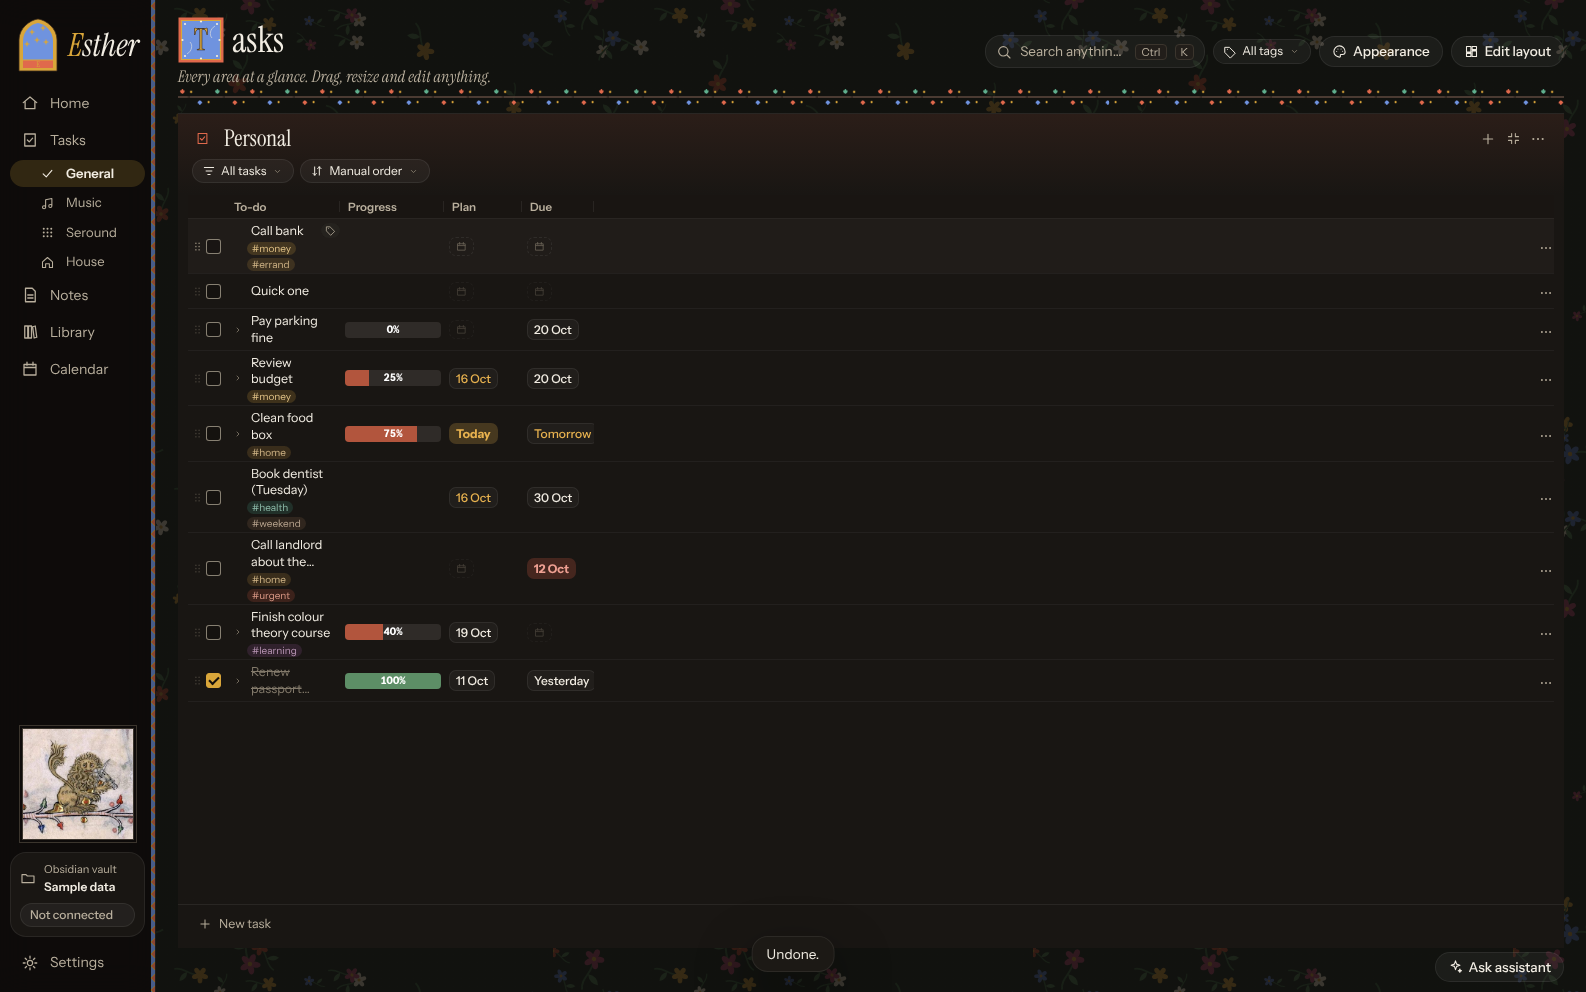
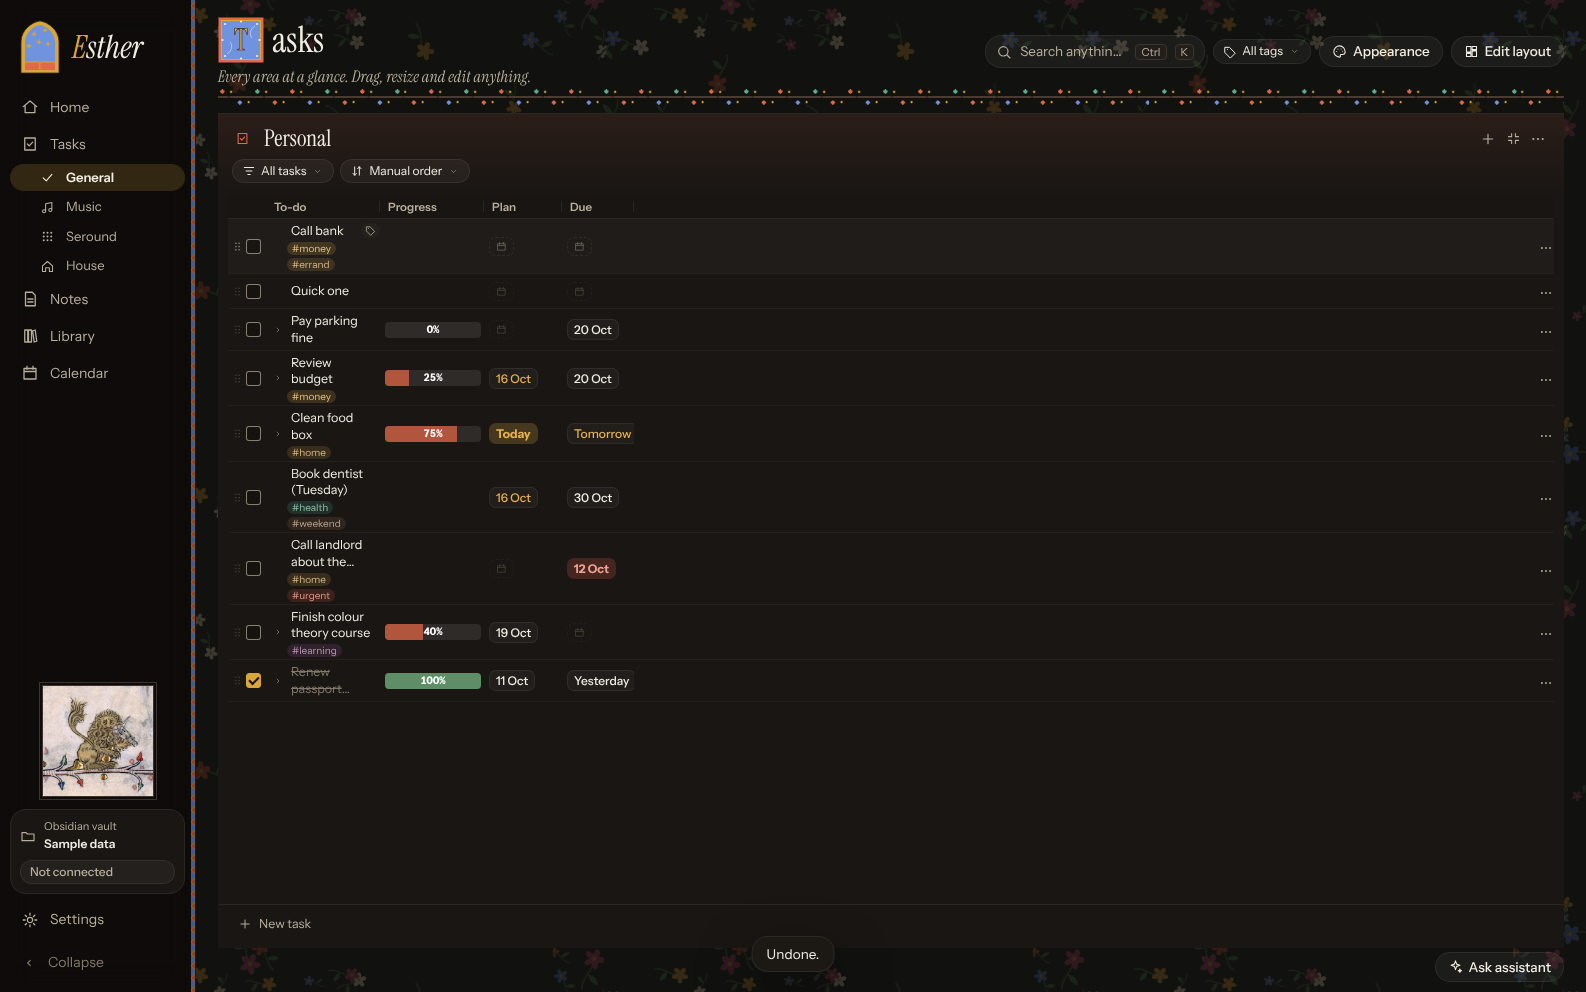
Collapsible sidebar, in-place editing keeps its look, movable Library columns
- Sidebar collapses to icons (button at the bottom or Ctrl+\); the Esther emblem stays centred when collapsed, emblem + wordmark when open. Choice is remembered.
- Editing a title or cell keeps the same font, size and colour, with a soft tint instead of a boxed text field.
- Library tables: drag a column header left or right to reorder (Name stays first).
- Library header: even padding and a hairline under it.

Claude-Session: https://claude.ai/code/session_016WKLQPuGqaCrfQHNoqNZZi

diff --git a/frankk-app/src/styles.css b/frankk-app/src/styles.css
@@ -407,13 +407,13 @@ fieldset { border: 1px solid var(--line); border-radius: var(--radius); padding:
 .color-row input { width: 26px; height: 22px; padding: 0; border: 1px solid var(--line); border-radius: 4px; background: none; cursor: pointer; }
 
 /* ---------- narrow windows ---------- */
-@media (max-width: 1440px) {
-  .app { grid-template-columns: 56px 1fr; }
-  .sidebar { padding: 14px 6px; align-items: center; }
-  .sidebar .wordmark { font-size: 11px; letter-spacing: .04em; padding: 4px 0 6px; } .sidebar .wordmark::after { letter-spacing: .1em; }
-  .sidebar button span, .vault-box, .tiny { display: none; } .sidebar button { justify-content: center; padding: 9px 0; }
-  .search-btn { width: 170px; }
-}
+@media (max-width: 1440px) { .search-btn { width: 170px; } }
+/* Collapsed sidebar (toggle at the bottom of the sidebar, or Ctrl+\) */
+.app.nav-collapsed { grid-template-columns: 60px 1fr; }
+.nav-collapsed .sidebar { padding: 14px 6px; align-items: stretch; }
+.nav-collapsed .sidebar button span, .nav-collapsed .vault-box, .nav-collapsed .side-drollery { display: none; }
+.nav-collapsed .sidebar button { justify-content: center; padding: 9px 0; }
+.nav-collapsed .sidebar li.sub button { padding: 6px 0; }
 @media (max-width: 1100px) { .search-btn span, .search-btn kbd { display: none; } .search-btn { width: auto; } }
 @media (prefers-reduced-motion: reduce) { * { transition: none !important; } }
 .vault-badge { display: flex; align-items: center; gap: 8px; border: 1px dashed var(--line); border-radius: var(--radius); padding: 3px 10px; color: var(--muted); }
@@ -865,7 +865,7 @@ fieldset { border: 1px solid var(--line); border-radius: var(--radius); padding:
 [data-style='gilded'] .capture h3, [data-style='gilded'] .coming h3, [data-style='gilded'] .minical h3 { font: 500 18px var(--font-display); letter-spacing: 0; text-transform: none; color: var(--text); }
 [data-style='gilded'] .group-label::before { content: '❧ '; color: var(--accent); }
 [data-style='gilded'] .btn.primary { background: var(--accent); border-color: var(--accent); color: var(--accent-ink); }
-@media (max-width: 1440px) { [data-style='gilded'] .wordmark { display: none; } .sidebar li.sub button { padding: 6px 0; } }
+
 @media (max-width: 1200px) { .notes { grid-template-columns: 200px minmax(0, 1fr); } .note-side { grid-column: 1 / -1; position: static; } .library, .settings { grid-template-columns: 1fr; } .lib-types, .set-nav { position: static; display: flex; flex-wrap: wrap; } }
 .w-stat-num { font-size: 34px; }
 .kind-stat .w-body { padding-bottom: 10px; }
@@ -1298,3 +1298,32 @@ fieldset { border: 1px solid var(--line); border-radius: var(--radius); padding:
 body:has(.react-grid-item.resizing) { user-select: none; }
 
 .qc-write textarea { font: 400 13.5px/1.5 var(--font-body); padding: 8px 10px; }
+
+/* ── Iteration 15: collapsible sidebar, logo centred either way ── */
+.app { grid-template-columns: 196px 1fr; transition: grid-template-columns .18s ease; }
+.brand { display: flex; align-items: center; justify-content: center; gap: 10px; padding: 4px 0 2px; }
+.app:not(.nav-collapsed) .brand { justify-content: flex-start; padding-left: 8px; }
+.nav-collapsed .brand .wordmark { display: none; }
+.nav-collapsed .brand .arch-emblem { width: 34px; height: 42px; }
+.brand .arch-emblem { flex: none; }
+.nav-toggle { color: var(--faint) !important; }
+.nav-toggle svg { transition: transform .18s ease; }
+[data-style='medieval'] .app.nav-collapsed { grid-template-columns: 84px 1fr; }
+/* Editing text keeps the same font, size and colour as the text itself: just a caret and a soft underline */
+input.editable.editing { background: color-mix(in srgb, var(--text) 6%, transparent) !important; border: 0 !important; box-shadow: none !important; outline: none;
+  border-radius: 6px; field-sizing: content; min-width: 4ch; max-width: 100%; color: inherit; }
+.panel-title input.editable.editing { color: var(--area); }
+:is([data-style='gilded'], [data-style='modern']) .panel-title input.editable.editing { color: var(--text); }
+input.editable.editing:focus, input.editable.editing:focus-visible { outline: none !important; box-shadow: none !important; border: 0 !important; }
+/* Library tables: drag a column header to move it */
+.dv-table th.movable { cursor: grab; }
+.dv-table th.col-dragging { opacity: .45; }
+.dv-table th.drop-before { box-shadow: inset 2px 0 0 color-mix(in srgb, var(--text) 45%, transparent); }
+.dv-table th.drop-after { box-shadow: inset -2px 0 0 color-mix(in srgb, var(--text) 45%, transparent); }
+
+/* Library header: even spacing */
+:is([data-style='gilded'], [data-style='modern']) .lib-main { padding: 18px 22px 16px; gap: 14px; }
+.lib-head { gap: 12px 14px; padding-bottom: 14px; border-bottom: 1px solid var(--edge, var(--line-soft)); }
+.lib-head .lib-folder { margin-left: -4px; }
+.lib-head .seg { margin-left: auto; }
+.lib-head .dv-spacer { display: none; }

diff --git a/frankk-app/src/components/DataView.tsx b/frankk-app/src/components/DataView.tsx
@@ -131,6 +131,15 @@ function TableLayout({ type, recs, fields, onOpen, view, patch }: { type: TypeDe
   const w = (k: string) => view.widths?.[k] ?? (k === 'title' ? 200 : 140);
   const sort = view.sort ? { key: view.sort.field, dir: view.sort.dir } : null;
   const tableRef = useRef<HTMLTableElement>(null);
+  // Drag a column header left or right to reorder it. Name always stays first.
+  const [dragKey, setDragKey] = useState<string | null>(null);
+  const [overKey, setOverKey] = useState<string | null>(null);
+  const moveCol = (from: string, to: string) => {
+    const order = view.fields.filter((k) => k !== from);
+    const at = to === 'title' ? 0 : order.indexOf(to) + (view.fields.indexOf(from) < view.fields.indexOf(to) ? 1 : 0);
+    order.splice(Math.max(0, at), 0, from);
+    patch({ fields: order });
+  };
   const setW = (k: string, px: number) => patch({ widths: { ...view.widths, [k]: Math.max(60, Math.min(600, Math.round(px))) } });
   const fit = (k: string, label: string) => {
     const cells = [...(tableRef.current?.querySelectorAll<HTMLElement>(`[data-col="${k}"] > *`) ?? [])];
@@ -143,7 +152,15 @@ function TableLayout({ type, recs, fields, onOpen, view, patch }: { type: TypeDe
         <thead><tr>{cols.map((f) => {
           const active = sort?.key === f.key;
           return (
-            <th key={f.key} aria-sort={active ? (sort!.dir === 'asc' ? 'ascending' : 'descending') : 'none'} className={active ? 'sorted' : ''}>
+            <th key={f.key} aria-sort={active ? (sort!.dir === 'asc' ? 'ascending' : 'descending') : 'none'}
+              className={`${active ? 'sorted' : ''}${f.key !== 'title' ? ' movable' : ''}${dragKey === f.key ? ' col-dragging' : ''}${overKey === f.key && dragKey && dragKey !== f.key ? (view.fields.indexOf(dragKey) < view.fields.indexOf(f.key) ? ' drop-after' : ' drop-before') : ''}`}
+              draggable={f.key !== 'title'}
+              title={f.key !== 'title' ? 'Drag left or right to move this column' : undefined}
+              onDragStart={(e) => { if (f.key === 'title') return; setDragKey(f.key); e.dataTransfer.effectAllowed = 'move'; e.dataTransfer.setData('text/plain', f.key); }}
+              onDragOver={(e) => { if (!dragKey) return; e.preventDefault(); e.dataTransfer.dropEffect = 'move'; if (overKey !== f.key) setOverKey(f.key); }}
+              onDragLeave={() => setOverKey((k) => (k === f.key ? null : k))}
+              onDrop={(e) => { e.preventDefault(); if (dragKey && dragKey !== f.key) moveCol(dragKey, f.key); setDragKey(null); setOverKey(null); }}
+              onDragEnd={() => { setDragKey(null); setOverKey(null); }}>
               <button type="button" className="th-btn" title={`Sort by ${f.name}`} onClick={() => { const n = nextSort(sort, f.key); patch({ sort: n ? { field: n.key, dir: n.dir } : undefined }); }}>
                 {f.key !== 'title' && <span className="kind-ico">{KIND_ICON[f.kind]}</span>}<span className="th-label">{f.name}</span>
                 <span className="sort-ind" aria-hidden="true">{active ? (sort!.dir === 'asc' ? '▲' : '▼') : '↕'}</span>

diff --git a/frankk-app/src/App.tsx b/frankk-app/src/App.tsx
@@ -37,12 +37,15 @@ export default function App() {
   const { page, focusArea, setFocusArea, setPalette, paletteOpen, noteDialog, drawerTaskId, projectDialog, toast, say } = useUi();
   const { undo, canUndo } = useStore();
   const [theme, setTheme] = usePersistentState<ThemePrefs>('theme.v3', DEFAULT_THEME);
+  const [nav, setNav] = usePersistentState<{ collapsed: boolean }>('nav', { collapsed: typeof window !== 'undefined' && window.innerWidth < 1280 });
+  const toggleNav = () => setNav((n) => ({ collapsed: !n.collapsed }));
   useEffect(() => { applyTheme(theme); }, [theme]);
 
   useEffect(() => {
     const onKey = (e: KeyboardEvent) => {
       const typing = !!(e.target as HTMLElement).closest?.('input,select,textarea');
       if ((e.ctrlKey || e.metaKey) && e.key.toLowerCase() === 'k') { e.preventDefault(); setPalette(true); }
+      else if ((e.ctrlKey || e.metaKey) && e.key === '\\') { e.preventDefault(); setNav((n) => ({ collapsed: !n.collapsed })); }
       else if ((e.ctrlKey || e.metaKey) && !e.shiftKey && e.key.toLowerCase() === 'z' && !typing) {
         e.preventDefault();
         if (canUndo) { undo(); say('Undone.'); }
@@ -51,11 +54,11 @@ export default function App() {
     };
     document.addEventListener('keydown', onKey);
     return () => document.removeEventListener('keydown', onKey);
-  }, [focusArea, paletteOpen, noteDialog, drawerTaskId, projectDialog, setPalette, setFocusArea, canUndo, undo, say]);
+  }, [focusArea, paletteOpen, noteDialog, drawerTaskId, projectDialog, setPalette, setFocusArea, canUndo, undo, say, setNav]);
 
   return (
-    <div className="app">
-      <Sidebar />
+    <div className={`app${nav.collapsed ? ' nav-collapsed' : ''}`}>
+      <Sidebar collapsed={nav.collapsed} onToggle={toggleNav} />
       <main className="main">
         {page === 'home' && <HomePage theme={theme} setTheme={setTheme} />}
         {page === 'tasks' && <TasksBoard theme={theme} setTheme={setTheme} />}

diff --git a/frankk-app/src/components/Sidebar.tsx b/frankk-app/src/components/Sidebar.tsx
@@ -15,7 +15,7 @@ const NAV: { id: string; label: string; icon: IconName; page: Page; area?: Area;
   { id: 'calendar', label: 'Calendar', icon: 'calendar', page: 'calendar' },
 ];
 
-export function Sidebar() {
+export function Sidebar({ collapsed, onToggle }: { collapsed: boolean; onToggle: () => void }) {
   const { focusArea, setFocusArea, page, go } = useUi();
   const active = (n: (typeof NAV)[number]) => (n.area ? page === 'tasks' && focusArea === n.area : n.id === 'tasks' ? page === 'tasks' && !focusArea : page === n.page);
   return (
@@ -38,6 +38,9 @@ export function Sidebar() {
           <button className="btn small" onClick={() => go('settings')} title="See Vault & storage in Settings">Not connected</button>
         </div>
         <button className={page === 'settings' ? 'active' : ''} onClick={() => go('settings')} title="Settings"><Icon name="settings" size={18} /><span>Settings</span></button>
+        <button className="nav-toggle" onClick={onToggle} aria-expanded={!collapsed} aria-label={collapsed ? 'Expand menu' : 'Collapse menu'} title={`${collapsed ? 'Expand' : 'Collapse'} menu (Ctrl+\\)`}>
+          <Icon name="chevronR" size={16} style={{ transform: collapsed ? undefined : 'rotate(180deg)' }} /><span>Collapse</span>
+        </button>
       </div>
     </nav>
   );

diff --git a/frankk-app/src/components/Editable.tsx b/frankk-app/src/components/Editable.tsx
@@ -22,7 +22,7 @@ export function Editable({ value, onSave, placeholder = '—', label, className 
 
   if (editing) {
     return (
-      <input autoFocus className={`edit-input ${className}`} aria-label={label} type={type} value={draft} lang={lang}
+      <input autoFocus className={`edit-input editable editing ${className}`} aria-label={label} type={type} value={draft} lang={lang}
         onChange={(e) => setDraft(e.target.value)}
         onFocus={(e) => e.target.select()}
         onKeyDown={(e) => {
